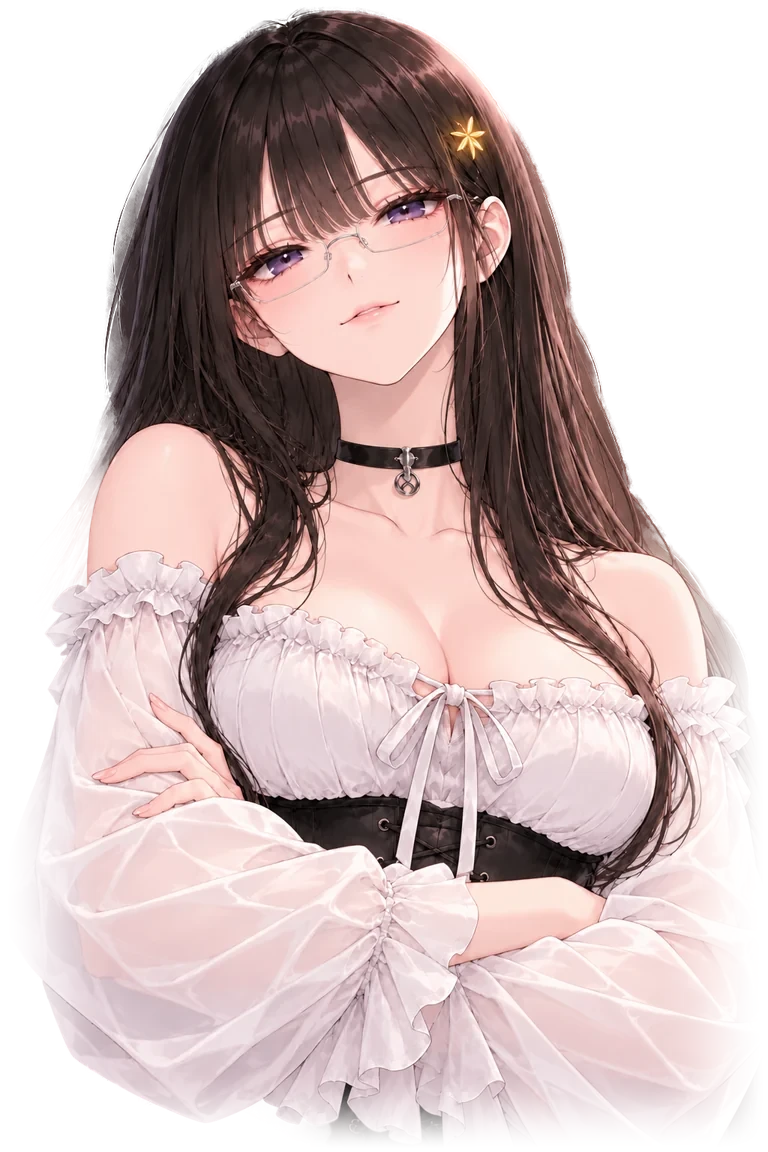
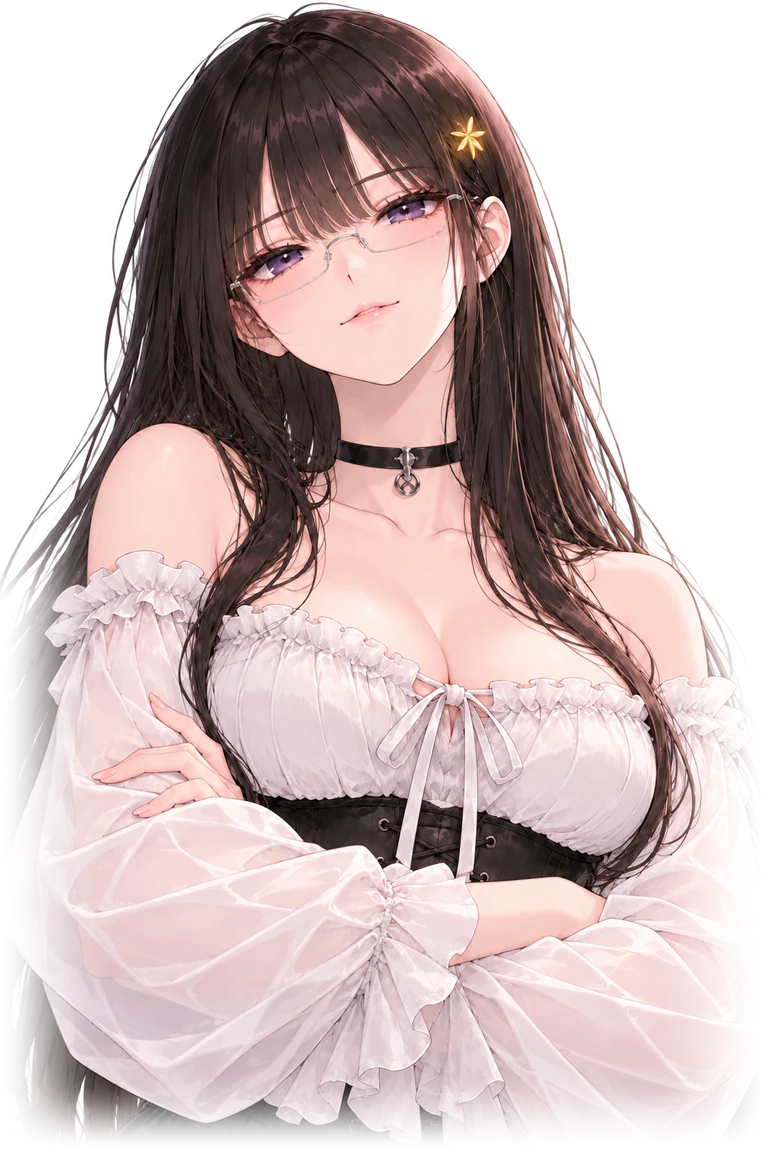
Reels Studio: 26 poses straight from the original transparent art
The pose images were already cut out, so every pose (the first 8, the 12, and
6 new ones: thumbsup, listen, showcase, shrug, laptop, funfact) now comes from
the original alpha instead of a re-cut, keeping the outfit whole; only the
cropped arm edges and the bottom fade softly into the backdrop.

Claude-Session: https://claude.ai/code/session_01XX6DWksHkFqRizRK5mNs54

diff --git a/firefly/index.html b/firefly/index.html
@@ -3468,7 +3468,8 @@ Start with one face tag like [thinking] [happy], then your help.`, Object.assign
   const STUDIO = (() => {
     const W0 = 720, H0 = 1280;
     const MOODS = ["surprised", "wink", "think", "grin", "point", "smug", "explain", "glasses",
-      "adjust", "heart", "shy", "sassy", "blush", "laugh", "stop", "annoyed", "phone", "present", "aside", "coffee"];
+      "adjust", "heart", "shy", "sassy", "blush", "laugh", "stop", "annoyed", "phone", "present", "aside", "coffee",
+      "thumbsup", "listen", "showcase", "shrug", "laptop", "funfact"];
     const INK = "#2b2d42", MUTED = "#7d8796", BLUE = "#2f6bff", BG1 = "#e3ecea", BG2 = "#cfdedb";
     const S = { el: null, pack: null, rec: null, ac: null, raf: 0, playing: false, chunks: [], faces: {}, line: -1, mood: "explain", prevMood: "", moodAt: 0, vis: null, visAt: 0, addAt: 0, say: "", sayAt: 0, chunks2: [], chIdx: -1, chAt: 0, audio: null, title: "", sub: "", titleAt: 0, sm: 0, nameUntil: 0, bgc: null };
     const NICHE = "a cute anime girl who explains tech and computer-science concepts in the simplest, coziest, most beginner-friendly way (e.g. what browser cookies are, CPU cores vs threads, RAM vs storage, what an API is, why your PC lags, how the internet works, Git, caching), warm and a little kawaii, hook + one simple explanation + a question CTA";
@@ -3536,7 +3537,7 @@ Make it FUN, like a friend who teases you a little while teaching: 2-3 small jok
 Sound ALIVE and human, like talking to friends you adore: natural little openers ("okay, real talk", "honestly", "right?"), a genuine *giggles* once or twice where it fits (written exactly like that), and vary the tone line by line. You love your followers: be warm and caring to them (a soft "you guys", a little "take care of yourself" moment when it fits), never cheesy.
 Write it as JSON only:
 {"hook":"the scroll-stopping first line, a question or surprise (<9 words)",
-"lines":[{"say":"what you say out loud, one short spoken sentence in simple words","title":"the big title at the top, 1-3 words like \\"Click.\\" or \\"cookies\\" or \\"websites forget you\\"; give it only when the scene changes","sub":"optional tiny grey line under the title (<7 words)","mood":"her pose, one of surprised|wink|think|grin|point|smug|explain|glasses|adjust (pushing up her glasses: 'actually...')|heart (heart hands: love for her followers)|shy|sassy (hand on hip: 'excuse me?')|blush (sweet, thankful)|laugh (after a joke)|stop (palm out: 'wait! don't!')|annoyed (arms crossed)|phone (holding a phone: phone topics)|present (presenting: 'ta-da, here it is')|aside (pointing at the boxes on screen)|coffee (cozy, calm)","tone":"how your voice sounds on this line, one of excited|happy|thinking|pout|shy|sad (pout = playful teasing)","visual":SCENE}, ... 7 to 10 lines (beats count), 20-35 seconds spoken; first line is the hook (mood surprised or think), last line is the question CTA (mood wink or point)],
+"lines":[{"say":"what you say out loud, one short spoken sentence in simple words","title":"the big title at the top, 1-3 words like \\"Click.\\" or \\"cookies\\" or \\"websites forget you\\"; give it only when the scene changes","sub":"optional tiny grey line under the title (<7 words)","mood":"her pose, one of surprised|wink|think|grin|point|smug|explain|glasses|adjust (pushing up her glasses: 'actually...')|heart (heart hands: love for her followers)|shy|sassy (hand on hip: 'excuse me?')|blush (sweet, thankful)|laugh (after a joke)|stop (palm out: 'wait! don't!')|annoyed (arms crossed)|phone (holding a phone: phone topics)|present (presenting: 'ta-da, here it is')|aside (pointing at the boxes on screen)|coffee (cozy, calm)|thumbsup (good job, approved)|listen (one finger up, serious: 'listen, this matters')|showcase (open palm, showing something off)|shrug ('who knows?', 'it depends')|laptop (holding a laptop: computer topics)|funfact (finger up, smiling: 'fun fact!')","tone":"how your voice sounds on this line, one of excited|happy|thinking|pout|shy|sad (pout = playful teasing)","visual":SCENE}, ... 7 to 10 lines (beats count), 20-35 seconds spoken; first line is the hook (mood surprised or think), last line is the question CTA (mood wink or point)],
 "igCaption":"a warm IG caption with 1-2 small kaomoji","hashtags":["#tag", ... 6 to 10 relevant tech hashtags]}
 SCENE is one of (labels short, no emoji):
 {"type":"popup","title":"We use cookies","yes":"ACCEPT ALL","no":"REJECT ALL","pick":"yes"}  (a UI dialog, a cursor clicks the picked button)
@@ -3753,7 +3754,8 @@ Keep one scene for 2-3 lines with "same" and add a tag or note on the later line
     function cueEmotes(raw, times, t0) {
       const l = S.pack && S.pack.lines[S.line] || {}, ev = [];
       const first = { surprised: "exclaim", think: "question", wink: "hearts", grin: "notes", smug: "sparkle", glasses: "sparkle",
-        adjust: "sparkle", heart: "hearts", shy: "hearts", blush: "hearts", laugh: "notes", stop: "exclaim", sassy: "question", present: "sparkle" }[l.mood];
+        adjust: "sparkle", heart: "hearts", shy: "hearts", blush: "hearts", laugh: "notes", stop: "exclaim", sassy: "question", present: "sparkle",
+        thumbsup: "sparkle", listen: "exclaim", showcase: "sparkle", shrug: "question", funfact: "exclaim" }[l.mood];
       if (first) ev.push([first, t0 + 80]);
       raw.forEach((w, j) => {
         const n = norm(w);
@@ -4374,7 +4376,8 @@ Keep one scene for 2-3 lines with "same" and add a tag or note on the later line
     // her voice's tone follows her face unless the line asks for a tone itself (same voice, more life)
     const TONES = ["excited", "happy", "thinking", "pout", "shy", "sad"];
     const TONE_OF = { surprised: "excited", wink: "pout", think: "thinking", grin: "excited", point: "excited", smug: "pout", explain: "happy", glasses: "thinking",
-      adjust: "thinking", heart: "happy", shy: "shy", sassy: "pout", blush: "shy", laugh: "excited", stop: "excited", annoyed: "pout", phone: "happy", present: "excited", aside: "happy", coffee: "happy" };
+      adjust: "thinking", heart: "happy", shy: "shy", sassy: "pout", blush: "shy", laugh: "excited", stop: "excited", annoyed: "pout", phone: "happy", present: "excited", aside: "happy", coffee: "happy",
+      thumbsup: "excited", listen: "thinking", showcase: "excited", shrug: "pout", laptop: "happy", funfact: "excited" };
     async function voiceFor(text, tone) {
       const ctl = new AbortController(), tid = setTimeout(() => ctl.abort(), 20000);
       try {
